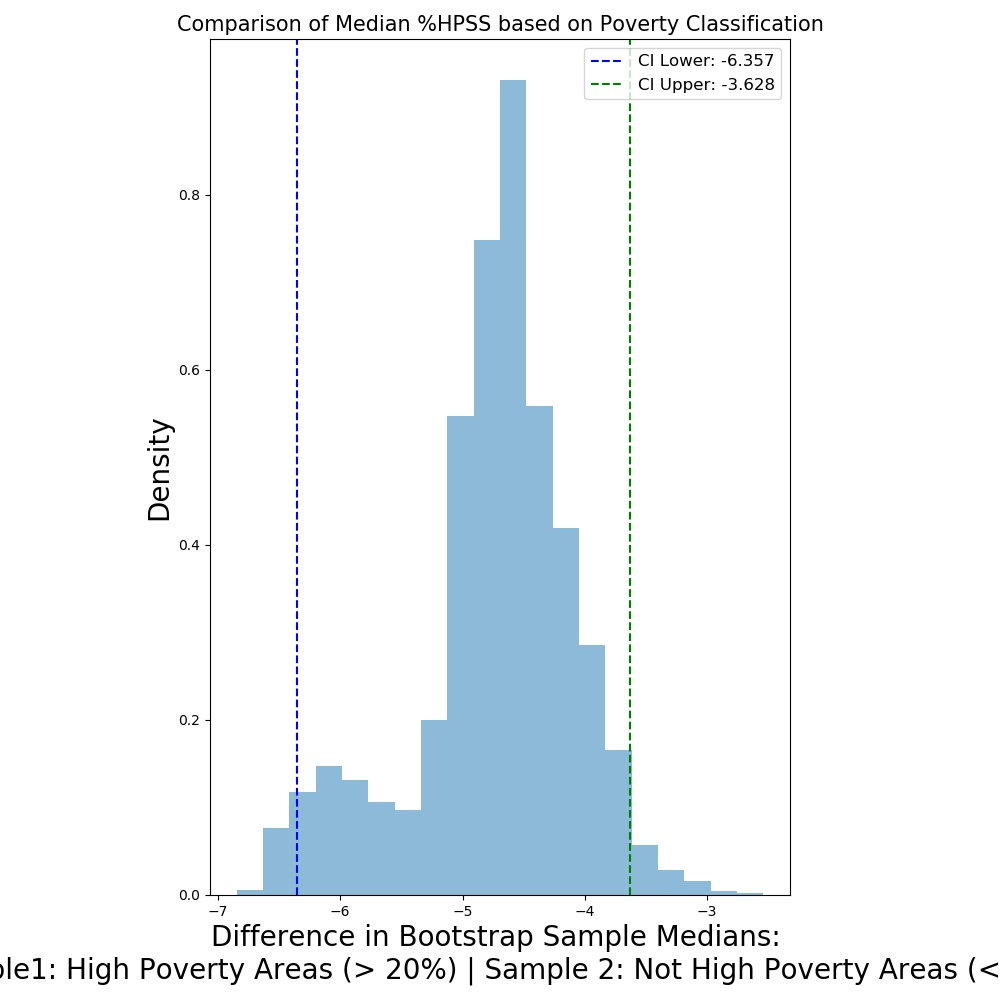
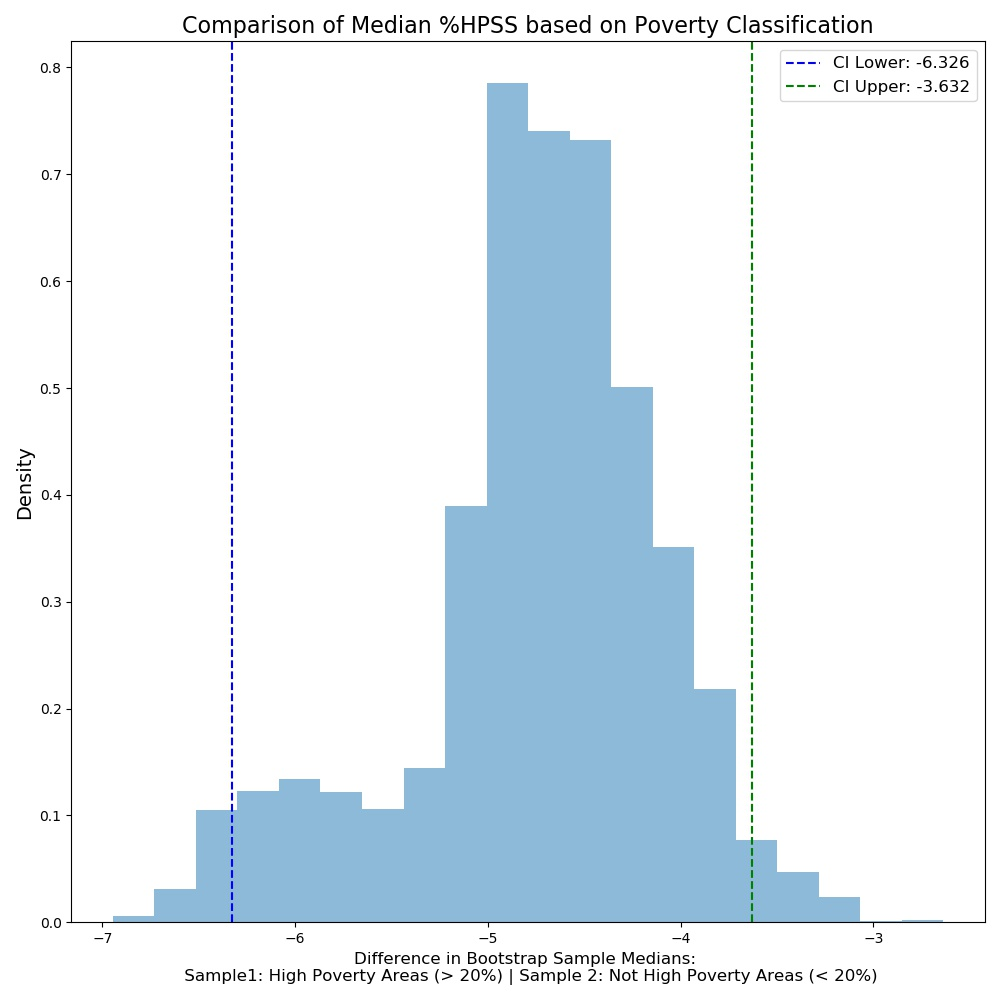
font size on images

diff --git a/src/hypo_testing_pct_hpss_by_poverty.py b/src/hypo_testing_pct_hpss_by_poverty.py
@@ -17,16 +17,17 @@ data = [high_pov['pct_hpss'], not_high_pov['pct_hpss']]
 labels = ['High Poverty', 'Not High Poverty']
 colors = ['red', 'blue']
 
-overlay_histograms(ax[0], data, labels, colors, xlabel = 'Percent HPSS', title = 'Percent HPSS by Poverty Classification')
-ax[0].set_ylabel('Density', fontsize = 12)
+overlay_histograms(ax[0], data, labels, colors, xlabel = 'Percent HPSS', title = ('Percent HPSS by Poverty Classification'))
+ax[0].set_ylabel('Density', fontsize = 16)
+ax[0].set_xlabel('Percent HPSS', fontsize = 16)
 
 dfs_c = [high_pov, not_high_pov]
 columns_c = ['pct_hpss', 'pct_hpss']
 labels_c = ['High Poverty', 'Not High Poverty']
 
 overlay_plots(ax[1], dfs_c, columns_c, labels_c, colors, 'CDF: Percent HPSS by Poverty Classification')
-ax[1].set_xlabel('Percent HPSS', fontsize = 20)
-ax[1].set_ylabel('Cumulative Density', fontsize = 20)
+ax[1].set_xlabel('Percent HPSS', fontsize = 16)
+ax[1].set_ylabel('Cumulative Density', fontsize = 16)
 # fig.savefig('../images/pdfandcdf_pct_HPSS_by_poverty.jpeg', pad_inches = 0)
 plt.show()
 
@@ -37,9 +38,8 @@ fig, ax = plt.subplots(figsize = (10, 10))
 num_bs_samps = 5000
 conf_level = 0.95
 plot_bs_sample_diffs(ax, high_pov['pct_hpss'], not_high_pov['pct_hpss'], num_bs_samps, np.median, conf_level, 'Comparison of Median %HPSS based on Poverty Classification', 'Difference in Bootstrap Sample Medians: \n Sample1: High Poverty Areas (> 20%) | Sample 2: Not High Poverty Areas (< 20%)')
-
-ax.set_xlabel('Difference in Bootstrap Sample Medians: \n Sample1: High Poverty Areas (> 20%) | Sample 2: Not High Poverty Areas (< 20%)', fontsize = 20)
-ax.set_ylabel('Density', fontsize = 20)
+ax.set_xlabel('Difference in Bootstrap Sample Medians: \n Sample1: High Poverty Areas (> 20%) | Sample 2: Not High Poverty Areas (< 20%)', fontsize = 12)
+ax.set_ylabel('Density', fontsize = 14)
 fig.tight_layout()
 # fig.savefig('../images/Percent_HPSS_compare_medians.jpeg')
 plt.show()

diff --git a/README.md b/README.md
@@ -71,7 +71,7 @@ In further exploration, I thought that total LPSS might follow a Poisson distrib
 
 **Potential Explanations**
 
-It's likely that our Block Groups are not identically distributed with respect to LPSS; it's more likely that each subsection of Philadlephia has specific demands for the food retail scene. It is interesting that the three areas with the highest number of low produce supply stores are those which likely draw the most non-residents (students and commuters).
+It's likely that our Block Groups are not independent and identically distributed with respect to LPSS; it's more likely that each subsection of Philadlephia has specific demands for the food retail scene. It is interesting that the three areas with the highest number of low produce supply stores are those which likely draw the most non-residents (students and commuters).
 
 ![Heat Map Philadelphia - Total LPSS](images/tot_lpss_hmap_philly.png)
 
